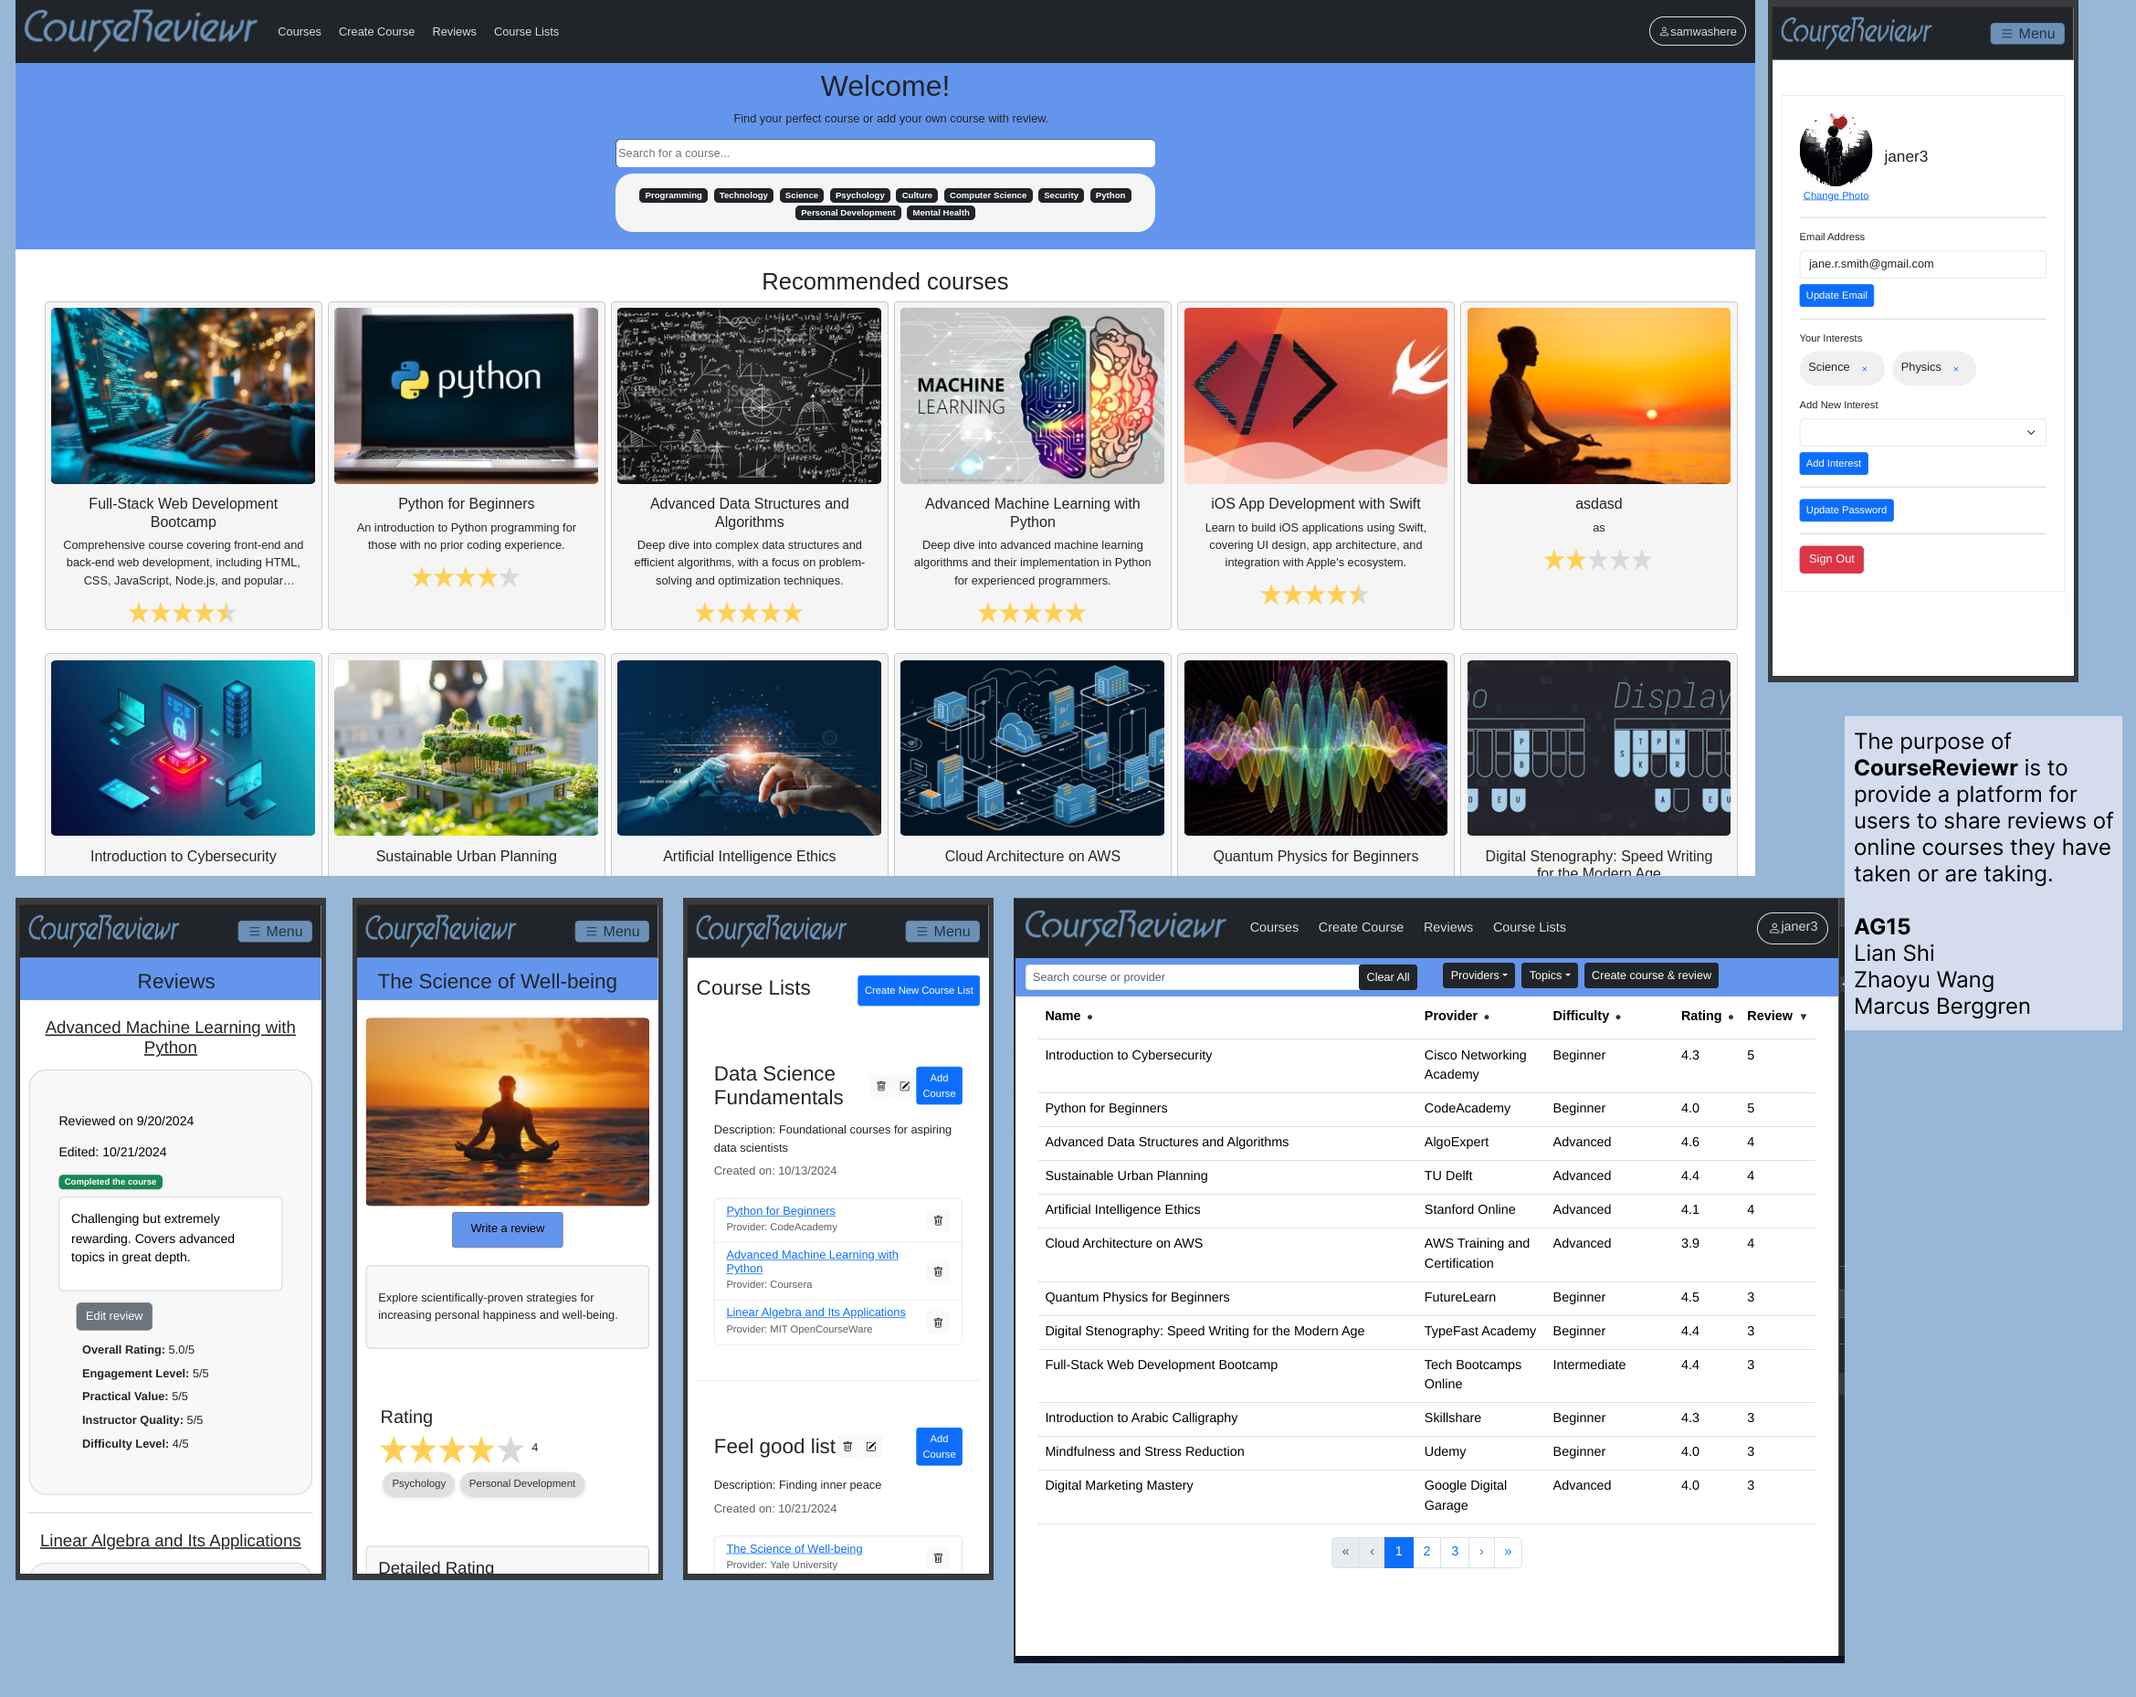
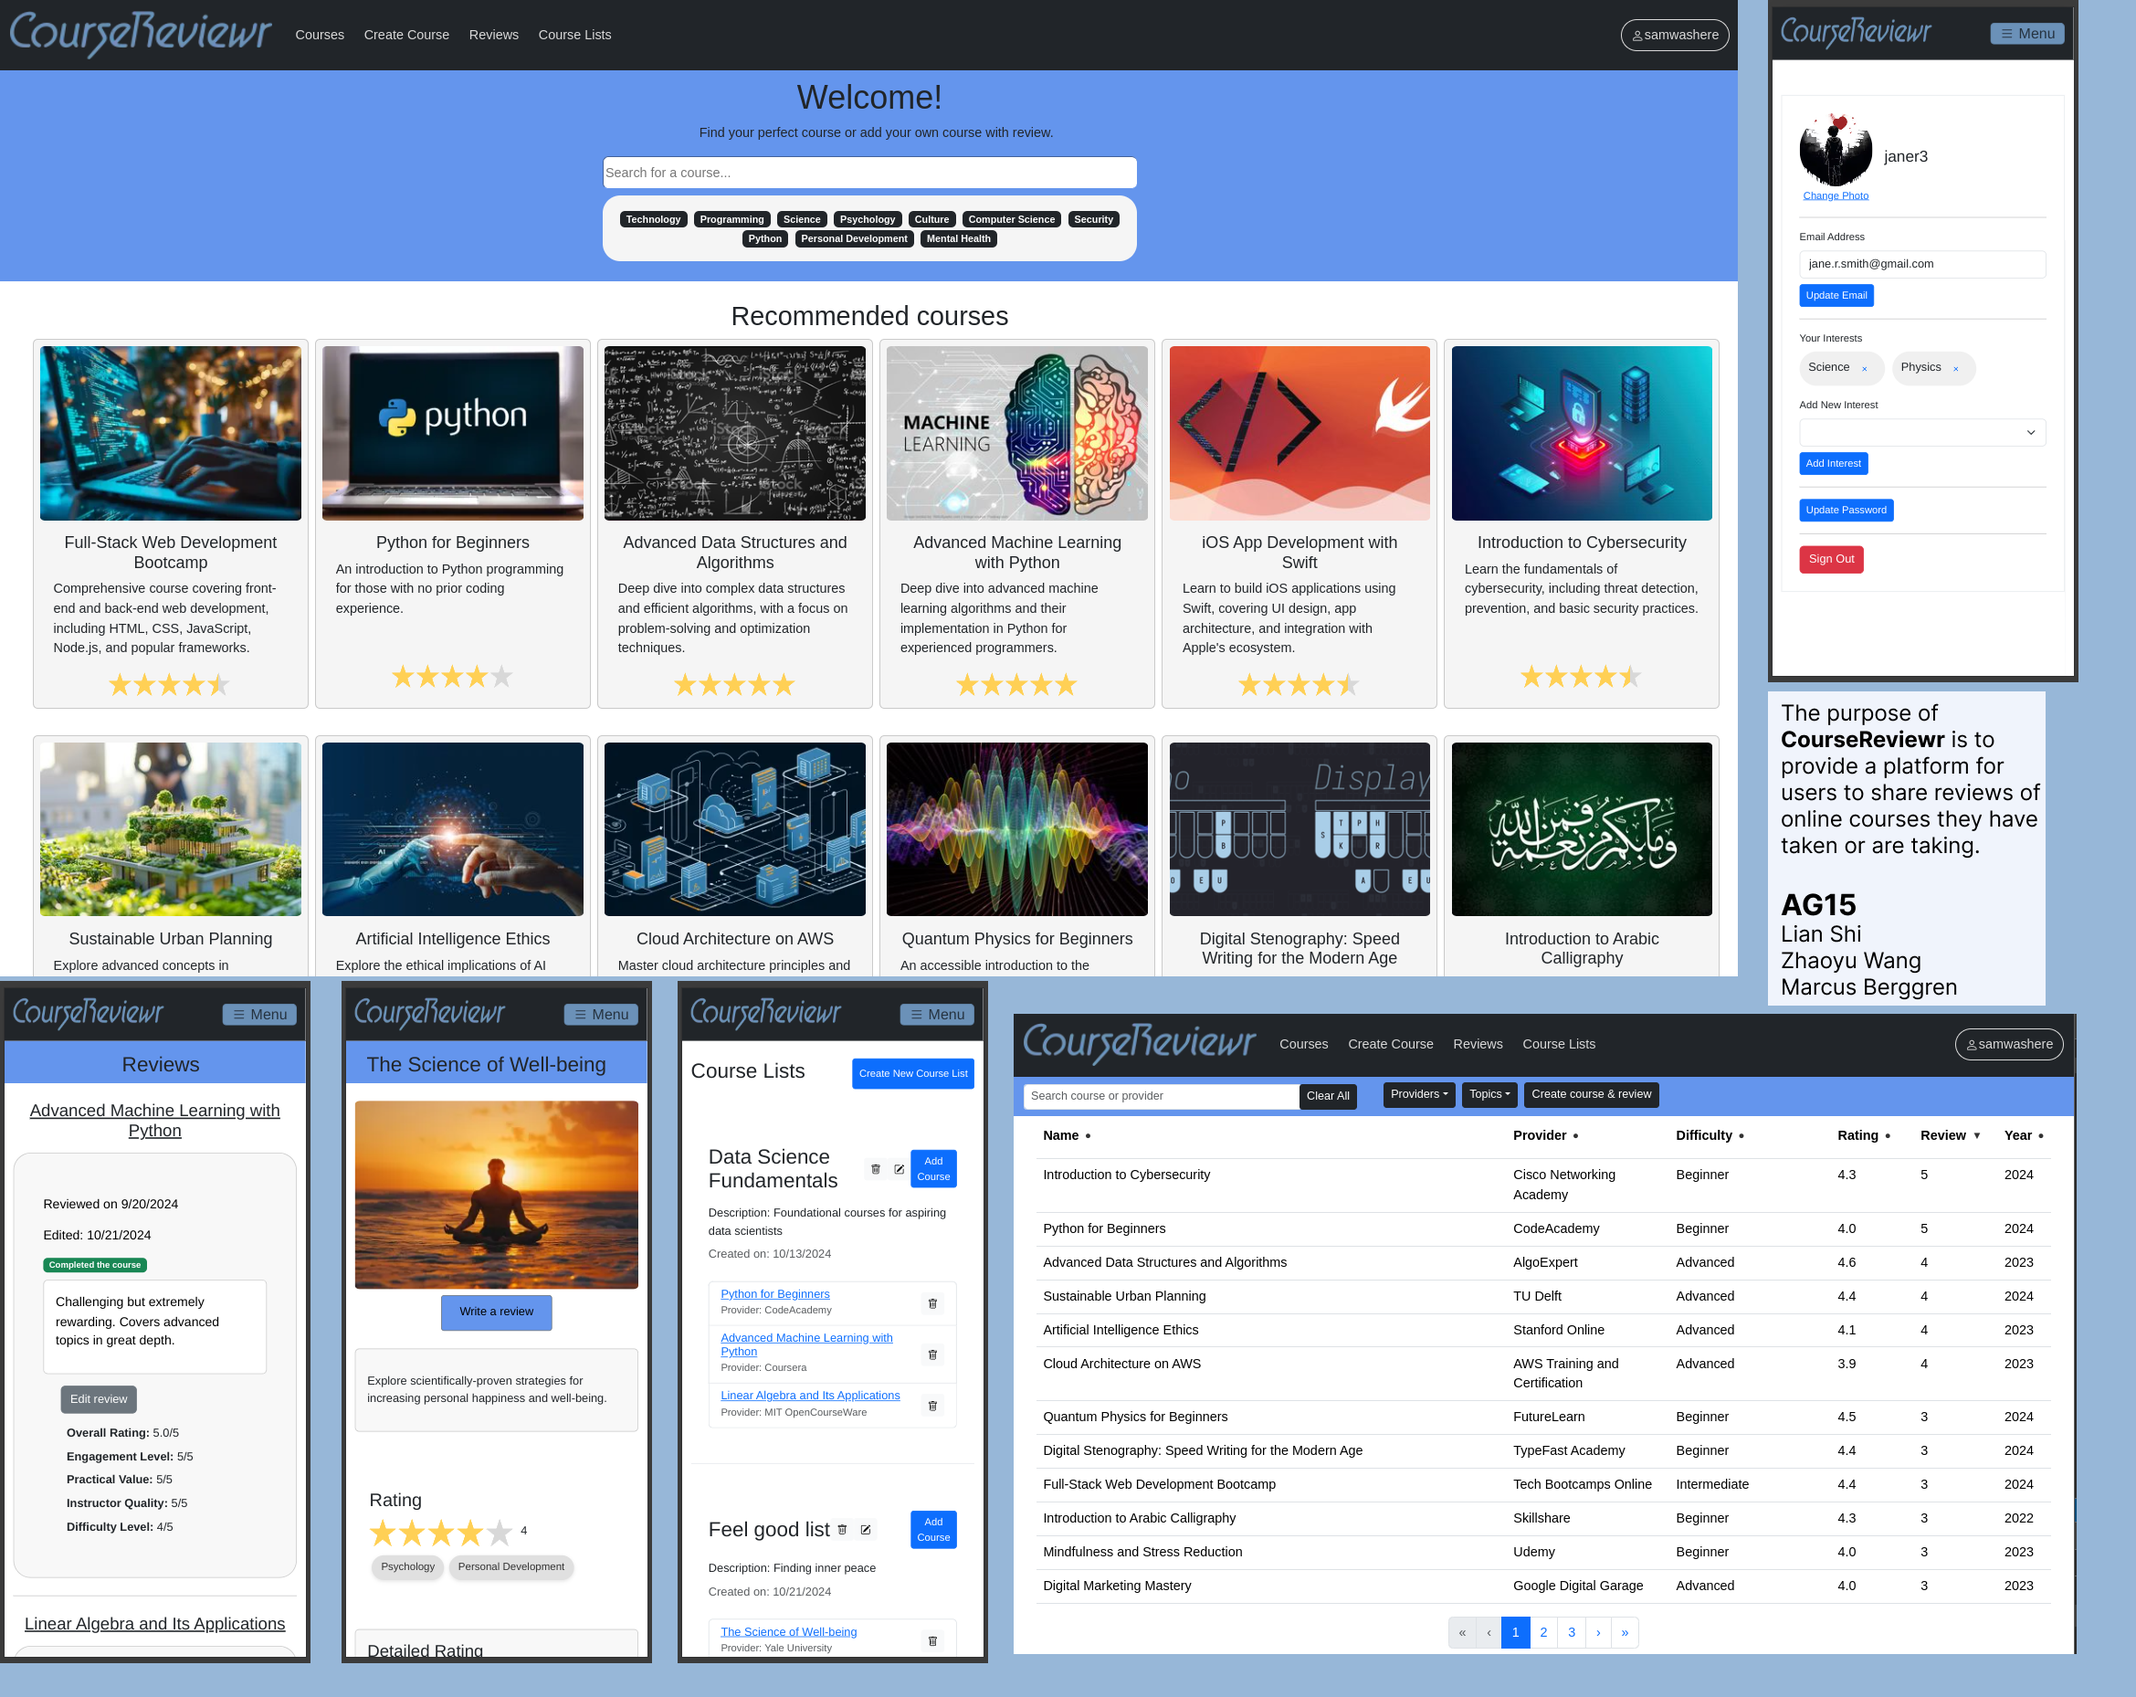
#43 Update teaser & adjust course card resizing

diff --git a/client/src/components/HomepageCardCourse.vue b/client/src/components/HomepageCardCourse.vue
@@ -50,6 +50,12 @@ defineProps({
   background-color: whitesmoke;
 }
 
+.card-body {
+  display: flex;
+  flex-direction: column;
+  flex-grow: 1;
+}
+
 .course-card:hover {
   background-color: lightgray;
 }
@@ -66,10 +72,11 @@ defineProps({
   overflow: hidden;
   text-overflow: ellipsis;
   display: -webkit-box;
-  -webkit-line-clamp: 3;
+  -webkit-line-clamp: 4;
   -webkit-box-orient: vertical;
-  text-align: center;
+  text-align: left; /* Better readability */
   margin-bottom: 1rem;
+  max-height: 6em; /* Text cut-off (1.5em per line) */
 }
 
 .rating-container {
@@ -92,7 +99,15 @@ defineProps({
   }
 
   .course-description {
+    -webkit-line-clamp: 3;
+    max-height: 4.5em;
+  }
+}
+
+@media (max-width: 776px) {
+  .course-description {
     -webkit-line-clamp: 2;
+    max-height: 3em;
   }
 }
 
@@ -102,7 +117,8 @@ defineProps({
   }
 
   .course-description {
-    -webkit-line-clamp: 2;
+    -webkit-line-clamp: 5;
+    max-height: 7.5em;
   }
 }
 
